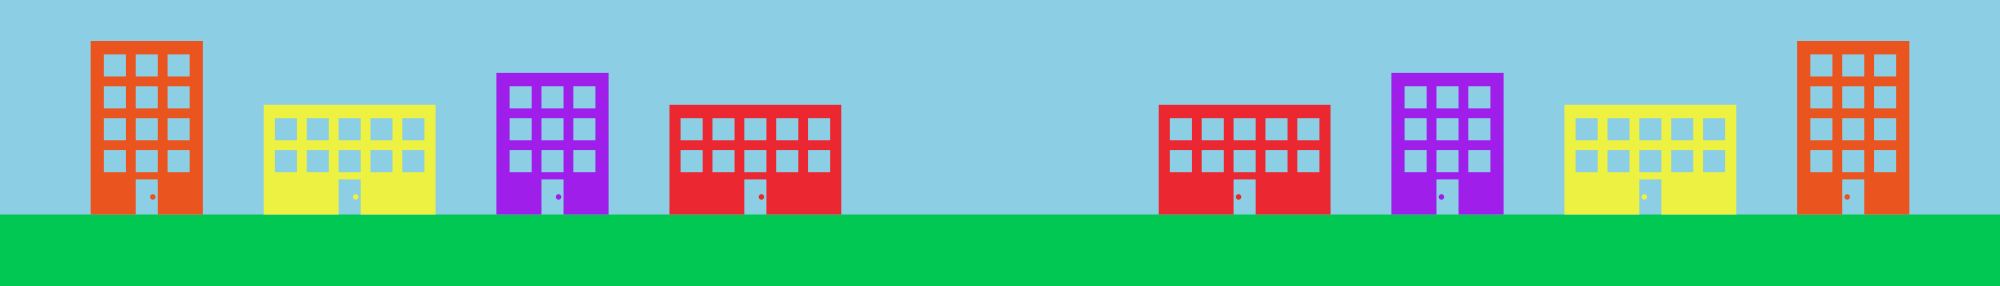
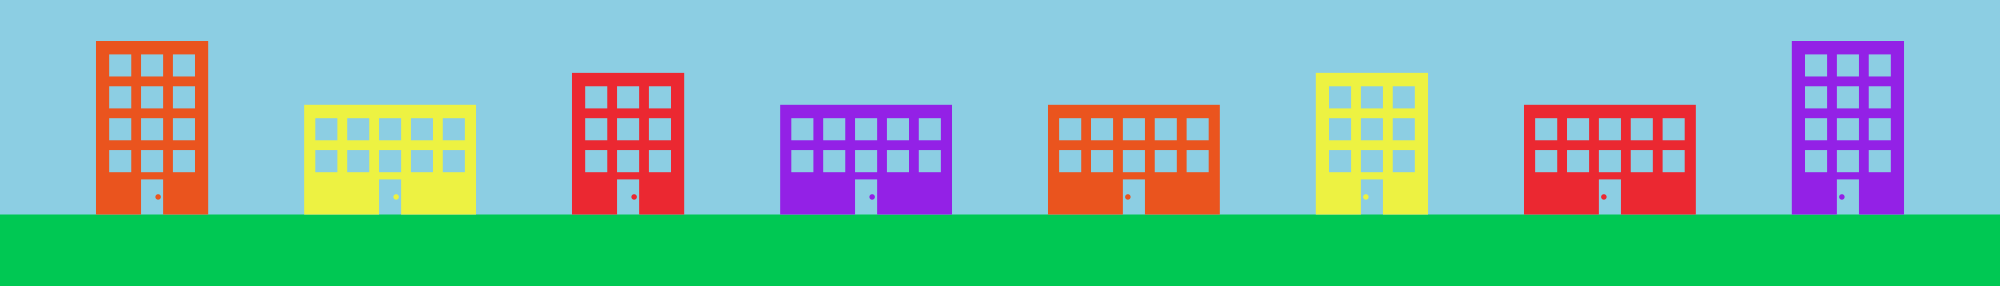
Added .FullWidth()

Changed region(s): [[0.527, 0.1399, 0.961, 0.7552], [0.031, 0.1678, 0.496, 0.7552]]

diff --git a/style/styles.less b/style/styles.less
@@ -14,7 +14,7 @@
 @bitter: 'Bitter', serif;
 @margarine: 'Margarine', cursive;
 
-.BitterFont(@textColor: white, @size: 1.5em){
+.BitterFont(@textColor: white, @size: 1.25em){
 	font-family: @bitter;
 	color: @textColor;
 	font-size: @size;
@@ -36,6 +36,7 @@
 /*--------------------------------------------*/
 
 @defaultPadding: 10px;
+@defaultMargin: @defaultPadding;
 @defaultWidth: 400px;
 
 .BoxModel(@size: @defaultPadding){
@@ -43,23 +44,34 @@
 	margin: @size;
 }
 
+.FullWidth(){
+	margin: 0;
+	width: 100%;
+}
+
 html{
-	background: @ecoGreen;
+	background: transparent;
 	//animation: animatedBackground 1s linear infinite;
 }
 
 div#sky{
 	background: @skyBlue;
+	.FullWidth();
 }
 
 div#buildings{
+
+	.FullWidth();
+
 	img{
-		width: 100%;
+		.FullWidth();
 	}
+
 }
 
 div#grass{
 	background: @ecoGreen;
+	.FullWidth();
 }
 
 /*--------------------------------------------*/
@@ -97,6 +109,61 @@ img#teaserLogo{
 	border: none;
 }
 
-input, select{
+input, select, button{
 	.FormCleanse();
+}
+
+div#grass{
+
+	float: left;
+
+	input{
+		border: 0.5em solid @darkGreen;
+		padding: @defaultPadding;
+		.BitterFont(@darkGreen, 1.5em);
+		//.Center();
+	}
+
+	button{
+		background: @darkGreen;
+		.BitterFont(white, 1.5em);
+	}
+
+}
+
+/*--------------------------------------------*/
+/*---> SCROLLBAR <----------------------------*/
+/*--------------------------------------------*/
+
+::-webkit-scrollbar{
+	width: 10px;
+	height: 10px;
+	background: transparent;
+}
+
+::-webkit-scrollbar-button{
+	background: transparent;
+}
+
+::-webkit-scrollbar-track{
+	background: transparent;
+}
+
+::-webkit-scrollbar-track-piece{
+	background: transparent;
+}
+
+::-webkit-scrollbar-thumb{
+	/*background: rgba(255, 255, 255, 0.5);*/
+	background: #2d0a58;
+}
+
+::-webkit-scrollbar-corner{
+	width: 10px;
+	height: 10px;
+	background: transparent;
+}
+
+::-webkit-resizer{
+	background: transparent;
 }

diff --git a/style/styles.css b/style/styles.css
@@ -1,1 +1,1 @@
-@keyframes animatedBackground{from{background:red}to{background:#ff0}}html{background:#00c853}div#sky{background:#8ccee3}div#buildings img{width:100%}div#grass{background:#00c853}p{padding:10px;font-family:Bitter,serif;color:#fff;font-size:1.25em;line-height:1.875em;margin:auto;display:block;text-align:center}img#teaserLogo{width:50%;padding:2.5%;margin:auto;display:block;text-align:center}input,select{outline:0;border:none}
+@keyframes animatedBackground{from{background:red}to{background:#ff0}}html{background:0 0}div#sky{background:#8ccee3;margin:0;width:100%}div#buildings,div#buildings img{margin:0;width:100%}div#grass{background:#00c853;margin:0;width:100%}p{padding:10px;font-family:Bitter,serif;color:#fff;font-size:1.25em;line-height:1.875em;margin:auto;display:block;text-align:center}img#teaserLogo{width:50%;padding:2.5%;margin:auto;display:block;text-align:center}button,input,select{outline:0;border:none}div#grass{float:left}div#grass input{border:.5em solid #00a631;padding:10px;font-family:Bitter,serif;color:#00a631;font-size:1.5em;line-height:2.25em}div#grass button{background:#00a631;font-family:Bitter,serif;color:#fff;font-size:1.5em;line-height:2.25em}::-webkit-scrollbar{width:10px;height:10px;background:0 0}::-webkit-scrollbar-button{background:0 0}::-webkit-scrollbar-track{background:0 0}::-webkit-scrollbar-track-piece{background:0 0}::-webkit-scrollbar-thumb{background:#2d0a58}::-webkit-scrollbar-corner{width:10px;height:10px;background:0 0}::-webkit-resizer{background:0 0}

diff --git a/index.html b/index.html
@@ -27,7 +27,8 @@
 		<img src="style/buildingsBanner.png">
 	</div>
 	<div id="grass">
-		<input type="text">
+		<input id="teaserForm" type="text">
+		<button>Notify Me!</button>
 	</div>
 
 	<script>
